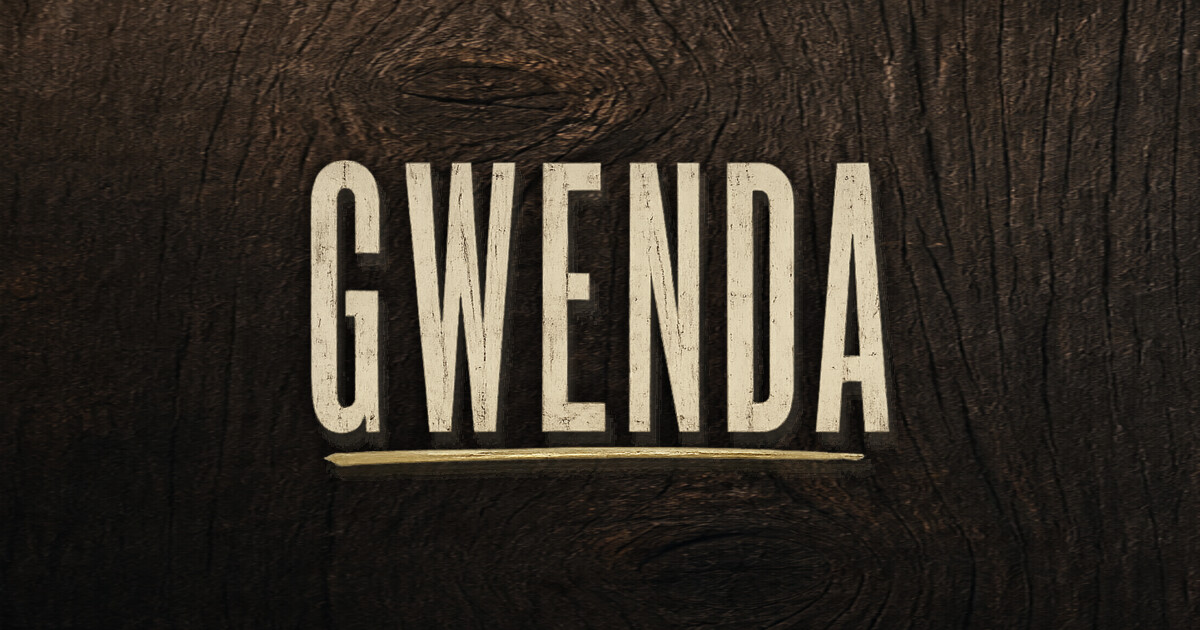
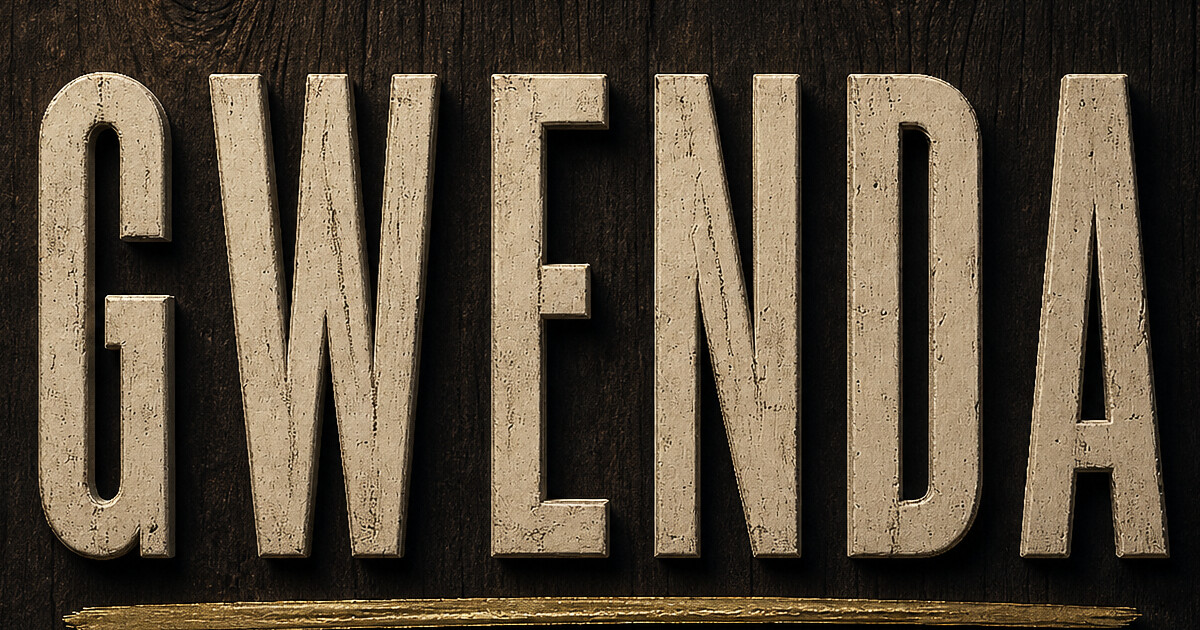
Use 3D wood OG image for link previews on staging and production.
Point Open Graph and Twitter meta at /og-image.jpg from the correct site origin, and allow link-preview crawlers through the staging gate for Word and WhatsApp testing.

diff --git a/functions/_lib/site-auth.js b/functions/_lib/site-auth.js
@@ -83,7 +83,7 @@ export function buildAuthCookie(token, { secure = true } = {}) {
 }
 
 const SEARCH_ENGINE_BOTS =
-  /googlebot|google-inspectiontool|storebot-google|bingbot|slurp|duckduckbot|baiduspider|yandexbot|applebot|facebookexternalhit|twitterbot|linkedinbot/i;
+  /googlebot|google-inspectiontool|storebot-google|bingbot|slurp|duckduckbot|baiduspider|yandexbot|applebot|facebookexternalhit|twitterbot|linkedinbot|slackbot|discordbot|whatsapp|telegrambot|microsoft office|ms-office|skypeuripreview|teams/i;
 
 export function isSearchEngineCrawler(request) {
   const ua = request.headers.get("User-Agent") ?? "";
